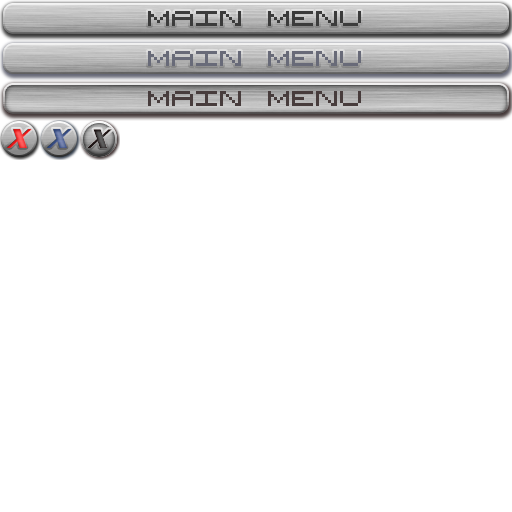
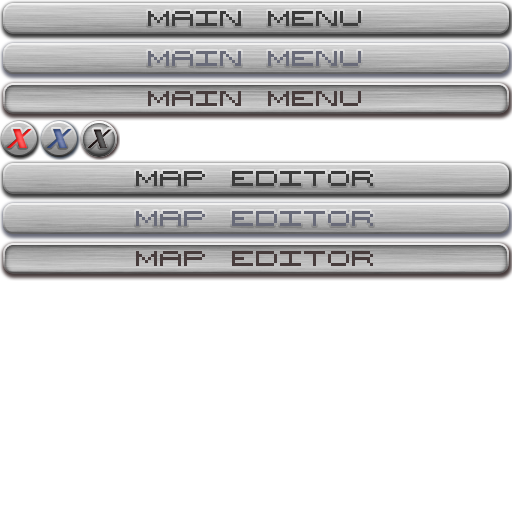
Added the button into the start screen for entering the Map Editor

Changed region(s): [[0.0, 0.3125, 1.0, 0.5625]]

diff --git a/IS_XNA_Shooter/IS_XNA_Shooter/IS_XNA_Shooter/Menus/MenuStart.cs b/IS_XNA_Shooter/IS_XNA_Shooter/IS_XNA_Shooter/Menus/MenuStart.cs
@@ -15,10 +15,11 @@ namespace IS_XNA_Shooter
         private SuperGame mainGame;
         private int horizontalSep; // separación horizontal de las opciones
         private Vector2 mainMenuPosition; // posicion de la opcion "main menu"
+        private Vector2 mapEditorPosition; // posición de la opción "map editor"
 
         private Texture2D splash;
 
-        private MenuItem itemMainMenu, itemQuit;
+        private MenuItem itemMainMenu, itemMapEditor, itemQuit;
 
         /* ------------------- CONSTRUCTORS ------------------- */
         public MenuStart(SuperGame mainGame)
@@ -26,13 +27,17 @@ namespace IS_XNA_Shooter
             this.mainGame = mainGame;
 
             horizontalSep = 48;
-            mainMenuPosition = new Vector2(SuperGame.screenWidth / 2, (SuperGame.screenHeight / 4) * 3);
+            mainMenuPosition = new Vector2(SuperGame.screenWidth / 2, (SuperGame.screenHeight / 3) * 2);
+            mapEditorPosition = new Vector2(mainMenuPosition.X, mainMenuPosition.Y + horizontalSep);
 
             splash = GRMng.startSplash;
 
             itemMainMenu = new MenuItem(true, mainMenuPosition, GRMng.menuGameOver,
                 new Rectangle(0, 0, 512, 40), new Rectangle(0, 40, 512, 40),
                 new Rectangle(0, 80, 512, 40));
+            itemMapEditor = new MenuItem(true, mapEditorPosition, GRMng.menuGameOver,
+                new Rectangle(0, 160, 512, 40), new Rectangle(0, 200, 512, 40),
+                new Rectangle(0, 240, 512, 40));
             itemQuit = new MenuItem(false, new Vector2(SuperGame.screenWidth - 45, 5), GRMng.menuGameOver,
                 new Rectangle(0, 120, 40, 40), new Rectangle(40, 120, 40, 40),
                 new Rectangle(80, 120, 40, 40));
@@ -42,6 +47,7 @@ namespace IS_XNA_Shooter
         public void Update(int X, int Y)
         {
             itemMainMenu.Update(X, Y);
+            itemMapEditor.Update(X, Y);
             itemQuit.Update(X, Y);
         }
 
@@ -49,6 +55,7 @@ namespace IS_XNA_Shooter
         {
             spriteBatch.Draw(splash, Vector2.Zero, Color.White);
             itemMainMenu.Draw(spriteBatch);
+            itemMapEditor.Draw(spriteBatch);
             itemQuit.Draw(spriteBatch);
         }
 
@@ -56,6 +63,7 @@ namespace IS_XNA_Shooter
         public void Click(int X, int Y)
         {
             itemMainMenu.Click(X, Y);
+            itemMapEditor.Click(X, Y);
             itemQuit.Click(X, Y);
         }
 
@@ -66,6 +74,11 @@ namespace IS_XNA_Shooter
             {
                 Audio.PlayEffect("digitalAcent01");
                 mainGame.EnterToMenu();
+            }
+            else if (itemMapEditor.Unclick(X, Y))
+            {
+                Audio.PlayEffect("digitalAcent01");
+                // TODO! CUESTA & TROYAN BRO! aquí se llama al menu editor
             }
             else if (itemQuit.Unclick(X, Y))
             {

diff --git a/IS_XNA_Shooter/IS_XNA_Shooter/IS_XNA_Shooter/SuperGame.cs b/IS_XNA_Shooter/IS_XNA_Shooter/IS_XNA_Shooter/SuperGame.cs
@@ -262,7 +262,7 @@ namespace IS_XNA_Shooter
             updateFramesCounter = updateFramesCounterAux = 0;
             timeCounterSecond = timeCounterSecondAux = 1;
 
-            currentState = gameState.scoresMenu; // puts game's state to starting
+            currentState = gameState.starting;//scoresMenu; // puts game's state to starting
             pointer = new Vector2();
 
             base.Initialize();
